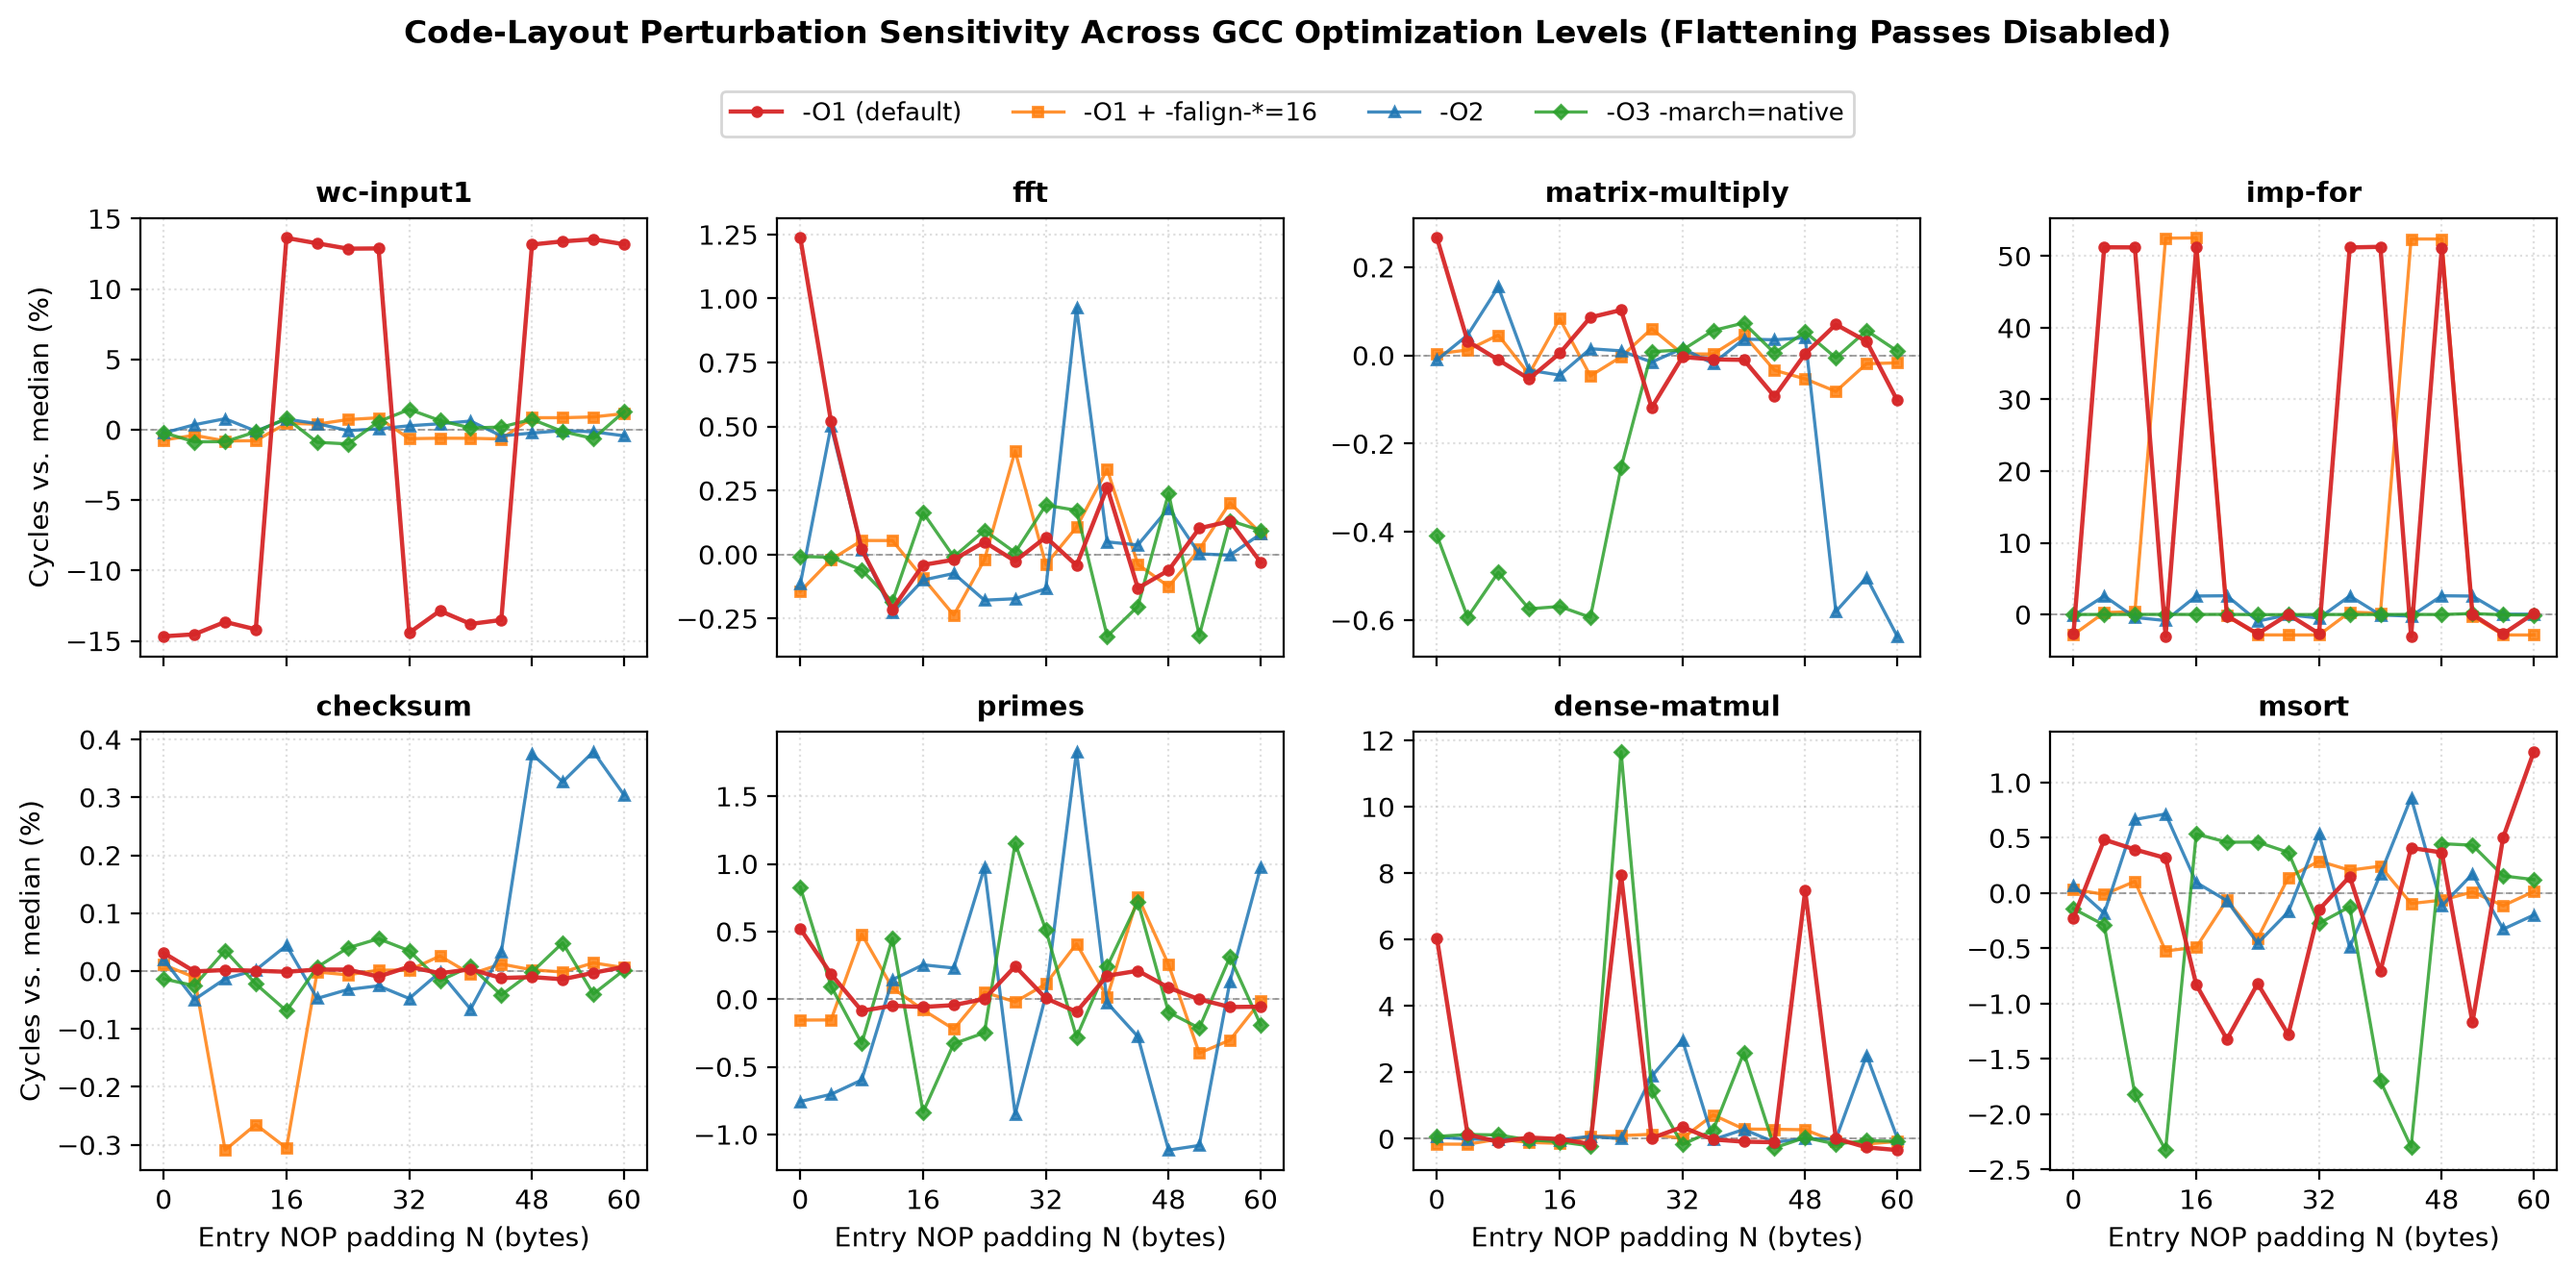
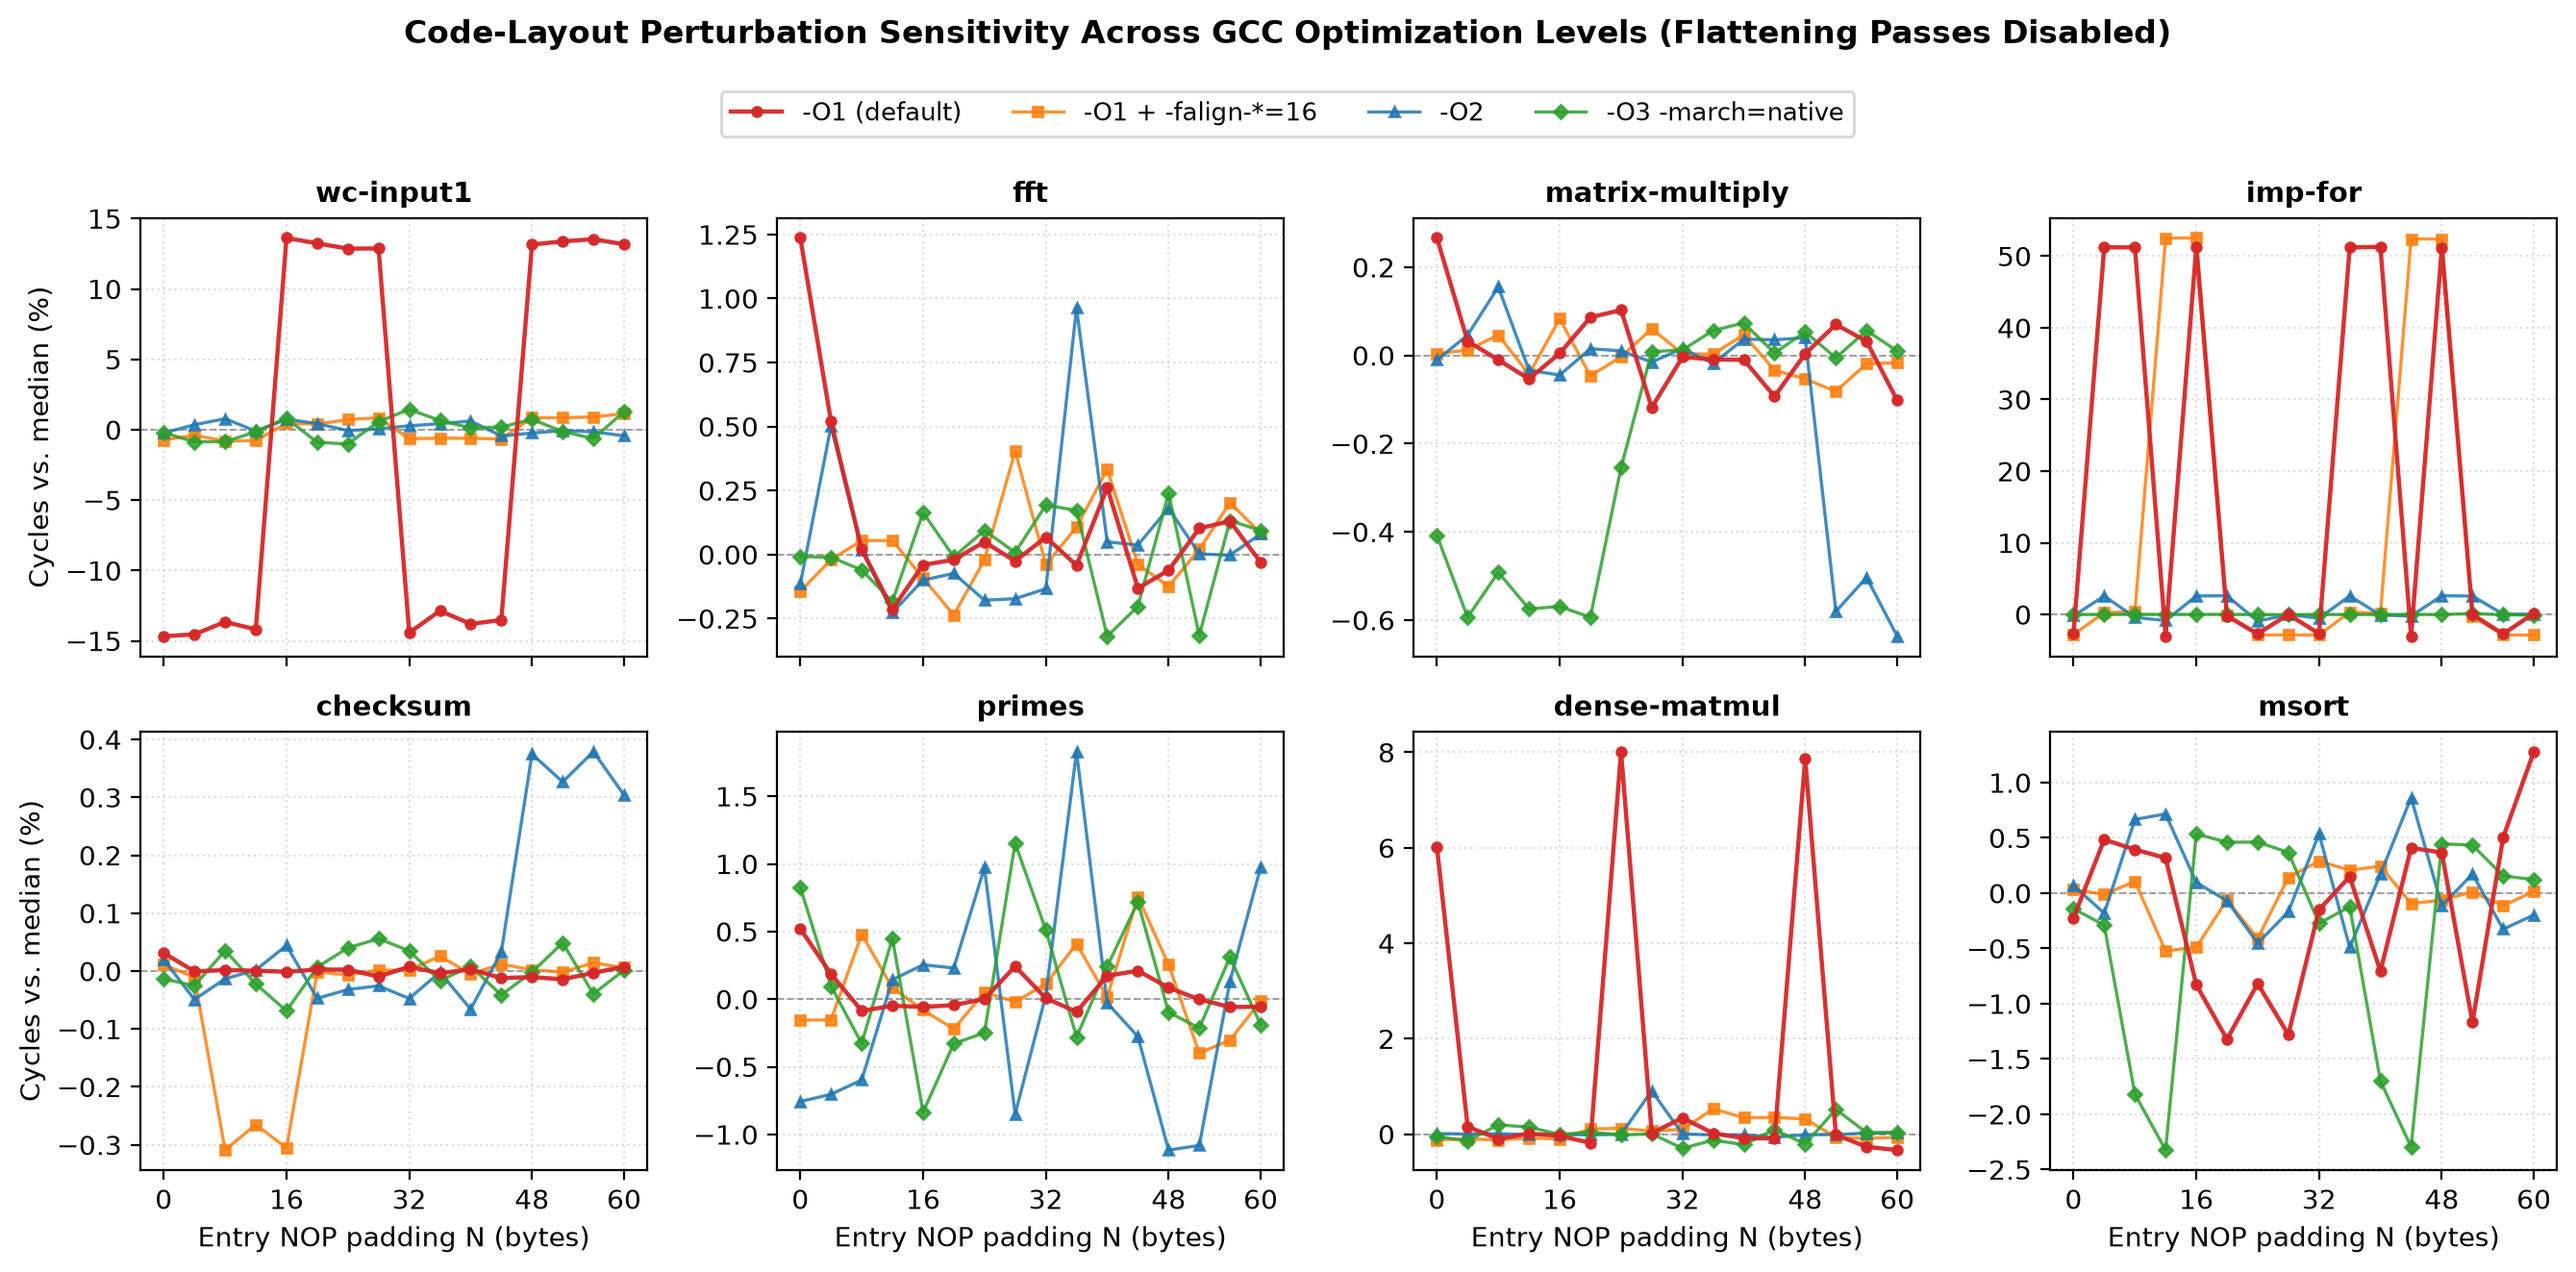
investigating noise

Changed region(s): [[0.5577, 0.5888, 0.7436, 0.9297]]

diff --git a/analysis/o1_instability_exp.py b/analysis/o1_instability_exp.py
@@ -74,7 +74,7 @@ BENCHMARKS: list[dict[str, Any]] = [
         "suite": "parallel_bench",
         "bench_dir": "dense-matmul",
         "args": ["-N", "512", "-repeat", "3", "-warmup", "1"],
-        "trials": 1,
+        "trials": 5,  # median of 5 invocations filters occasional physical-page/L2-set blips on 512x512 matrices
     },
     {
         "name": "msort",

diff --git a/reports/noise_measure.md b/reports/noise_measure.md
@@ -18,7 +18,7 @@ To pin this down quantitatively without conflating it with any optimization pass
   4. `O3_native`: `-cc-opt -O3 -cc-opt -march=native` (matches the main thesis evaluation runs)
 * **Benchmarks (8 single-core benchmarks across both suites):**
   * **MLton suite (scaled to ~0.5–1.1s/trial, 2–3 trials per binary):** `wc-input1` (`doit 256`), `fft` (`doit 1`), `matrix-multiply` (`doit 3`), `imp-for` (`doit 64`), `checksum` (`doit 192`).
-  * **`parallel-ml-bench` (1-core MLton, `-repeat 3 -warmup 1`):** `primes` (`-N 40000000`), `dense-matmul` (`-N 512`), `msort` (`-N 2500000`).
+  * **`parallel-ml-bench` (1-core MLton, `-repeat 3 -warmup 1`):** `primes` (`-N 40000000`, 1 invocation), `dense-matmul` (`-N 512`, median of 5 invocations per binary to filter occasional per-process physical-page/L2-set blips on power-of-two `512×512` matrices), `msort` (`-N 2500000`, 1 invocation).
 * **Execution controls:** All 512 binaries (8 benchmarks × 4 configs × 16 offsets) were compiled in parallel, then executed sequentially pinned to CPU 0 (`taskset -c 0`) under `perf stat` collecting `cycles`, `instructions`, and `branch-misses` (Experiment 1). For the top 3 benchmarks by `-O1` cycle spread, we then collected Ice Lake Top-Down Microarchitecture Analysis (TMA) and DSB/MITE frontend counters over 3 repetitions on the fastest vs. slowest `-O1` offsets alongside `N=0` of the other three configs (Experiment 2).
 
 ### Reproducibility & Artifacts
@@ -47,14 +47,12 @@ python3 analysis/o1_instability_exp.py
 | :--- | :--- | ---: | ---: | ---: | ---: | ---: |
 | **`imp-for`** | mlton | **56.04%** | **57.03%** | 3.57% | **0.21%** | 0.035% |
 | **`wc-input1`** | mlton | **33.16%** | **1.96%** | **1.23%** | **2.48%** | 0.078% |
-| **`dense-matmul`** | parallel_bench | **8.32%** | **0.88%** | 3.08% | 11.96%\* | 0.009% |
+| **`dense-matmul`** | parallel_bench | **8.37%** | **0.65%** | **0.98%** | **0.82%** | 0.007% |
 | `msort` | parallel_bench | 2.64% | 0.82% | 1.36% | 2.93% | 0.029% |
 | `fft` | mlton | 1.45% | 0.64% | 1.19% | 0.56% | 0.015% |
 | `primes` | parallel_bench | 0.61% | 1.16% | 2.98% | 2.01% | 0.040% |
 | `matrix-multiply` | mlton | 0.39% | 0.17% | 0.80% | 0.67% | 0.018% |
 | `checksum` | mlton | 0.05% | 0.34% | 0.44% | 0.12% | 0.006% |
-
-*\*On `dense-matmul`, `-O3 -march=native` is flat (~0%) across 15 of 16 offsets with a single isolated spike at $N=24$.*
 
 ### Max-to-Min Wall-Time Spread Across $N \in \{0, 4, \dots, 60\}$
 
@@ -62,7 +60,7 @@ python3 analysis/o1_instability_exp.py
 | :--- | ---: | ---: | ---: | ---: |
 | **`imp-for`** | **53.91%** | **55.20%** | 3.62% | **0.66%** |
 | **`wc-input1`** | **32.19%** | **1.99%** | **1.25%** | **2.41%** |
-| **`dense-matmul`** | **7.39%** | **0.60%** | 3.16% | 12.12% |
+| **`dense-matmul`** | **8.59%** | **0.60%** | **1.14%** | **0.46%** |
 | `msort` | 2.75% | 0.92% | 1.56% | 2.95% |
 | `fft` | 1.51% | 0.72% | 1.23% | 0.62% |
 | `primes` | 0.67% | 1.28% | 2.65% | 2.95% |
@@ -73,7 +71,7 @@ python3 analysis/o1_instability_exp.py
 1. **Exact 32-byte periodicity under `-O1`:**
    * On `wc-input1`, `-O1` produces an exact 32-byte periodic square wave: offsets $N \in \{0, 4, 8, 12\}$ and $\{32, 36, 40, 44\}$ run fast (~$-14\%$ vs. median), while $N \in \{16, 20, 24, 28\}$ and $\{48, 52, 56, 60\}$ run **33.2% slower** (~$+14\%$ vs. median). Enabling 16-byte alignment (`-O1 + align=16`) immediately eliminates the square wave (spread drops from 33.16% to 1.96%), as do `-O2` (1.23%) and `-O3 -march=native` (2.48%).
    * On `imp-for`, `-O1` exhibits exact 32-byte periodic **+56.0% spikes** at $N \in \{4, 8, 16\}$ and $\{36, 40, 48\}$. Notably, 16-byte alignment alone (`-O1 + align=16`) is *insufficient* here—it still exhibits +57.0% spikes with 32-byte periodicity ($N \in \{12, 16\}$ and $\{44, 48\}$) because 16-byte-aligned loops can still land on unfavorable 32-byte DSB boundaries. Moving to `-O2` drops the spread to 3.57%, and `-O3 -march=native` eliminates it completely (0.21%).
-   * On `dense-matmul`, `-O1` exhibits 24-byte-spaced spikes ($N \in \{0, 24, 48\}$, 8.32% spread), which `-O1 + align=16` reduces to 0.88%.
+   * On `dense-matmul`, `-O1` exhibits deterministic 24-byte-spaced spikes ($N \in \{0, 24, 48\}$, 8.37% cycle spread / 8.59% wall-time spread), whereas `-O1 + align=16` (0.65%), `-O2` (0.98%), and `-O3 -march=native` (0.82% cycles / 0.46% wall time) are all flat across all 16 offsets.
 2. **Instruction-count invariance:** Across all 8 benchmarks, retired instruction counts under `-O1` vary by **<0.08%** across all 16 offsets. The 8–56% cycle and wall-time swings are therefore purely microarchitectural code-layout artifacts rather than differences in generated work.
 
 ---
@@ -123,5 +121,5 @@ To confirm the microarchitectural cause of the `-O1` cliffs, we profiled the fas
 ## 4. Implications for the Evaluation Methodology
 
 * Under MLton's default `-O1`, **unrelated code-size changes anywhere earlier in a C chunk can induce 33–56% runtime swings** on tight-loop benchmarks without changing the executed instructions of the hot loop at all. Any compiler-pass evaluation run at `-O1` risks mistaking these layout cliffs for large optimization wins or regressions (and seeing opposite-sign effects across microarchitectures with different frontend/DSB geometries, such as Intel Ice Lake vs. AMD Ryzen).
-* Simply adding 16-byte alignment flags (`-falign-*=16`) to `-O1` fixes `wc-input1` (33.2% → 2.0%) and `dense-matmul` (8.3% → 0.9%), but does **not** eliminate the 32-byte boundary cliff on `imp-for` (57.0%).
-* Compiling with `-O2` or `-O3 -march=native` suppresses these `-O1` cliffs dramatically (`imp-for`: 56.0% → 0.21% at `-O3 -march=native`; `wc-input1`: 33.2% → 2.48%), justifying the use of `-O3 -march=native` throughout the thesis evaluation (and motivating updating the `-O2` text in `evaluation.tex` §5.1 to match the `-O3 -march=native` flags actually used in the benchmark runs).
+* Simply adding 16-byte alignment flags (`-falign-*=16`) to `-O1` fixes `wc-input1` (33.2% → 2.0%) and `dense-matmul` (8.4% → 0.7%), but does **not** eliminate the 32-byte boundary cliff on `imp-for` (57.0%).
+* Compiling with `-O2` or `-O3 -march=native` suppresses these `-O1` cliffs dramatically (`imp-for`: 56.0% → 0.21% at `-O3 -march=native`; `wc-input1`: 33.2% → 2.48%; `dense-matmul`: 8.4% → 0.82%), keeping max-to-min cycle spread below 3% across all 8 benchmarks (`0.12%–2.93%` at `-O3 -march=native`). This justifies the use of `-O3 -march=native` throughout the thesis evaluation (and motivates updating the `-O2` text in `evaluation.tex` §5.1 to match the `-O3 -march=native` flags actually used in the benchmark runs).

diff --git a/reports/noise_measure_codegen.md b/reports/noise_measure_codegen.md
@@ -233,7 +233,7 @@ python3 analysis/o1_codegen_permute_exp.py
 | :--- | ---: | ---: | ---: | ---: |
 | `wc-input1` | **33.16%** | **41.57%** | 4.98% | 7.45% |
 | `imp-for` | **56.04%** | 0.06% | 2.74% | **0.14%** |
-| `dense-matmul` | **8.32%** | **8.45%** | **3.29%** | 10.37%\* |
+| `dense-matmul` | **8.37%** | **8.45%** | **3.29%** | 10.37%\* |
 | `checksum` | 0.05% | **7.67%** *(+9.0% insts)* | **0.99%** | **0.24%** |
 | `matrix-multiply` | 0.39% | **5.75%** | **0.11%** | **0.13%** |
 | `primes` | 0.61% | **3.74%** | **1.65%** | 1.97% |
